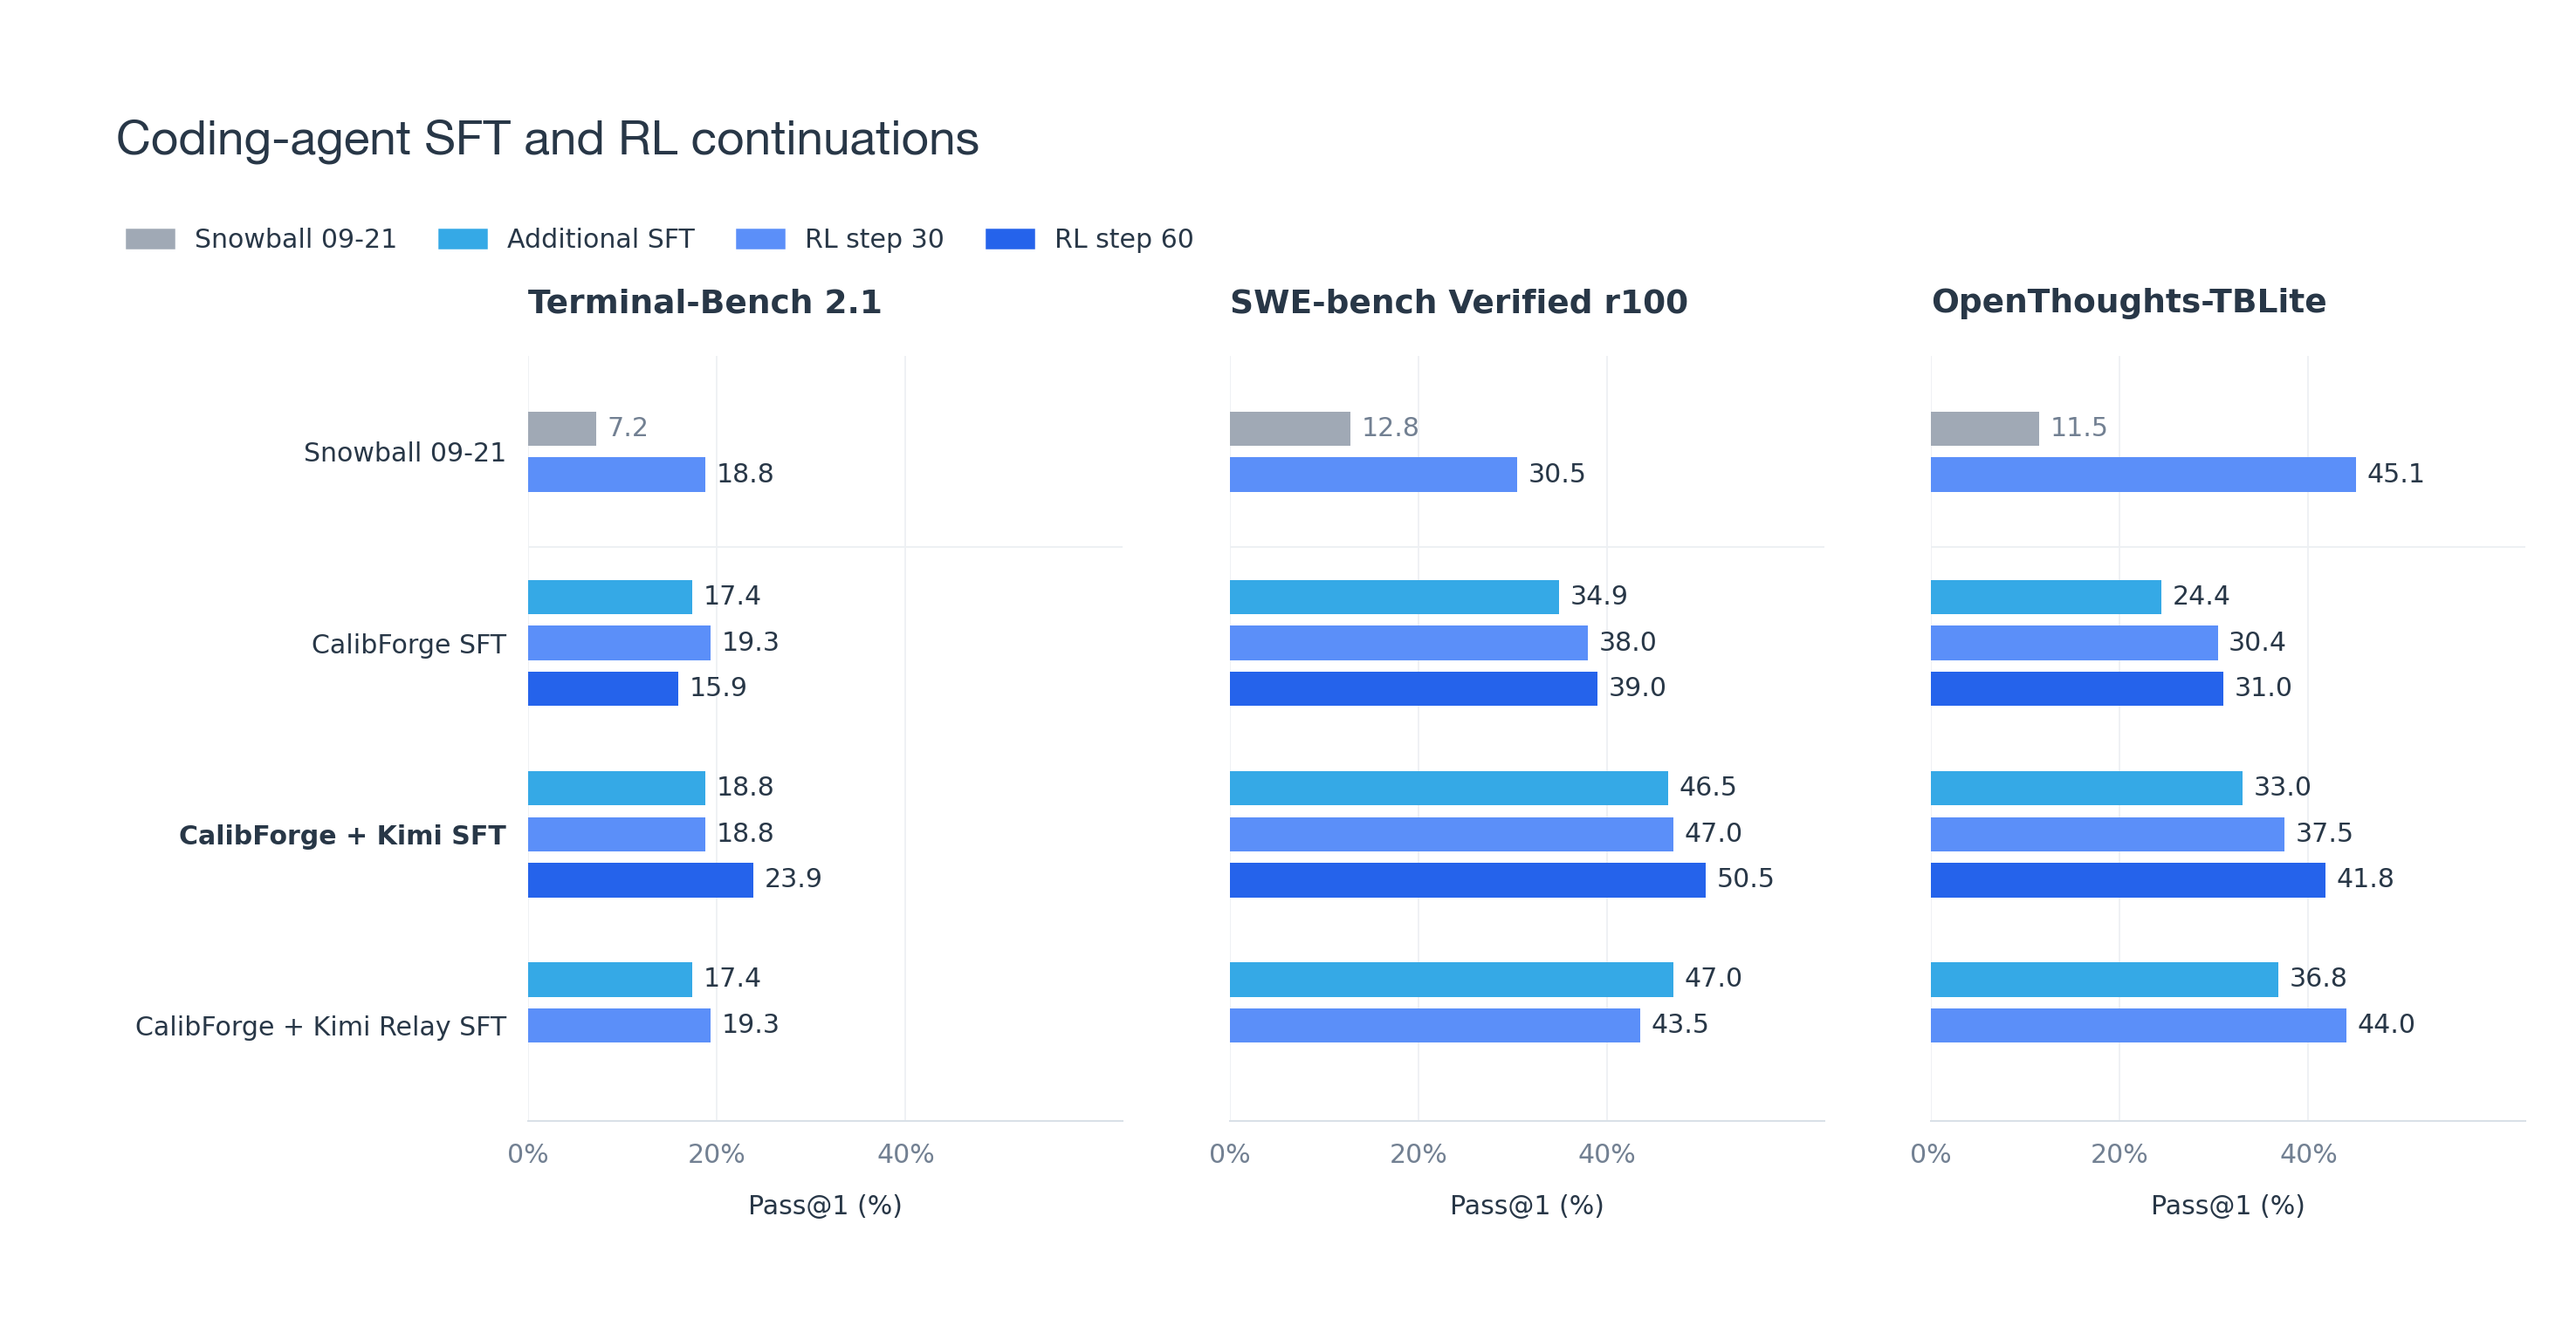
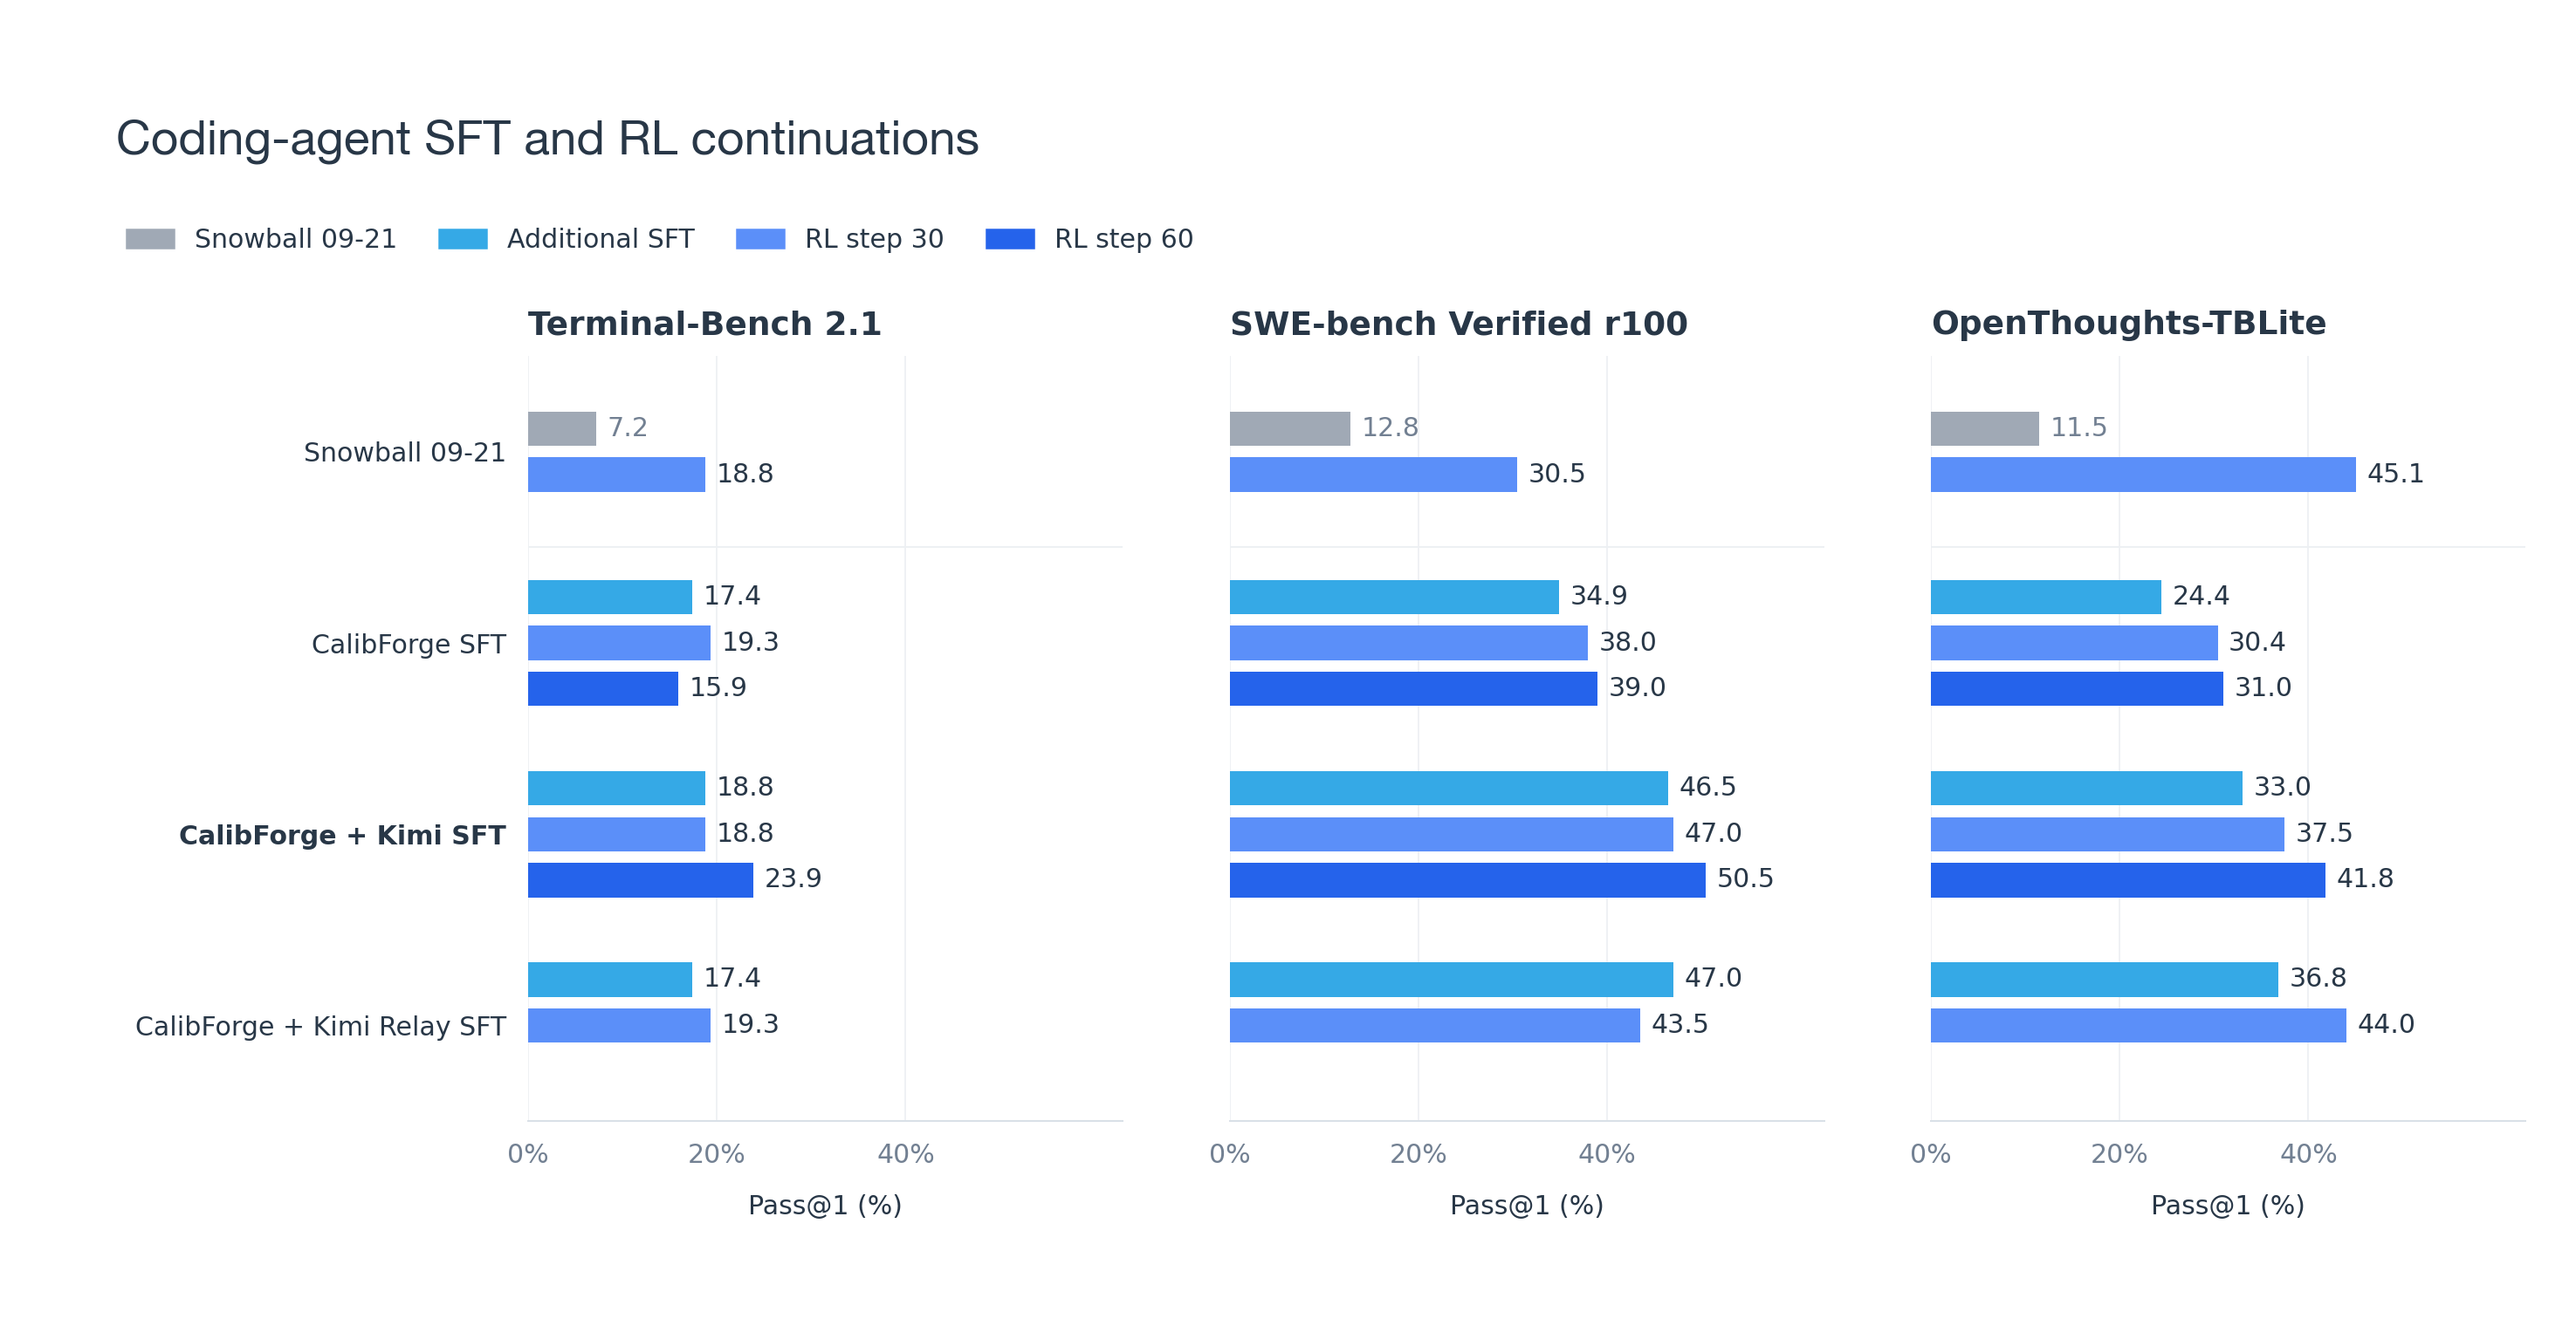
Balance benchmark title spacing in SFT RL figure

Changed region(s): [[0.7482, 0.2176, 0.9041, 0.2798], [0.4676, 0.2176, 0.6547, 0.2798], [0.1871, 0.2176, 0.3429, 0.2798]]

diff --git a/scripts/render_snowball_results.py b/scripts/render_snowball_results.py
@@ -213,7 +213,7 @@ def sft_rl():
         ("OpenThoughts-TBLite", "tblite", 11.5, [24.4, 33.0, 36.8], 45.1),
     ]
     for ax, (title, metric, base, sft, base_rl) in zip(axes, panels):
-        ax.set_title(title, loc="left", fontsize=15, weight="semibold", pad=20)
+        ax.set_title(title, loc="left", fontsize=15, weight="semibold", pad=10)
         for y, value, color in [(-.12, base, BASE), (.12, base_rl, step30_color)]:
             bars = ax.barh([y], [value], height=.18, color=color)
             ax.bar_label(bars, fmt="%.1f", padding=5, fontsize=12, color=MUTED if color == BASE else INK)

diff --git a/_posts/2026-10-21-turning-snowball-into-a-coding-agent.md b/_posts/2026-10-21-turning-snowball-into-a-coding-agent.md
@@ -276,7 +276,7 @@ Instruction following was a possible bottleneck. Even with the prompt, only **15
 The results and trace comparisons from here onward use **Snowball 09-21**. The figure compares this starting checkpoint, direct RL, and each additional SFT recipe before and after RL. The highlighted run is vanilla CalibForge + Kimi after 60 RL updates, which also supplies the last row of the opening table. Vanilla denotes ordinary teacher-demonstration SFT.
 
 <figure class="research-figure">
-<a href="{{ '/assets/img/snowball/sft-rl-stages.png?v=aligned-type' | relative_url }}"><img src="{{ '/assets/img/snowball/sft-rl-stages.png?v=aligned-type' | relative_url }}" alt="Across three benchmarks, the 09-21 starting model is shown in gray, three additional SFT recipes in cyan, and each recipe followed by RL in blue. Lighter blue bars show RL step 30 and darker blue bars show step 60. Direct RL and Relay have step-30 results only. Vanilla CalibForge plus Kimi reaches 23.9 percent on Terminal-Bench, 50.5 on SWE-bench, and 41.8 on TBLite." width="2951" height="1512" loading="lazy"></a>
+<a href="{{ '/assets/img/snowball/sft-rl-stages.png?v=tighter-panel-titles' | relative_url }}"><img src="{{ '/assets/img/snowball/sft-rl-stages.png?v=tighter-panel-titles' | relative_url }}" alt="Across three benchmarks, the 09-21 starting model is shown in gray, three additional SFT recipes in cyan, and each recipe followed by RL in blue. Lighter blue bars show RL step 30 and darker blue bars show step 60. Direct RL and Relay have step-30 results only. Vanilla CalibForge plus Kimi reaches 23.9 percent on Terminal-Bench, 50.5 on SWE-bench, and 41.8 on TBLite." width="2951" height="1512" loading="lazy"></a>
 <figcaption>Pass@1 point estimates with Terminus-2. “Snowball 09-21” is the general-SFT starting checkpoint. Lighter blue is RL step 30; darker blue is step 60. No step-60 result is available for direct RL or Relay. Starting-policy scores are unchanged.</figcaption>
 </figure>
 
